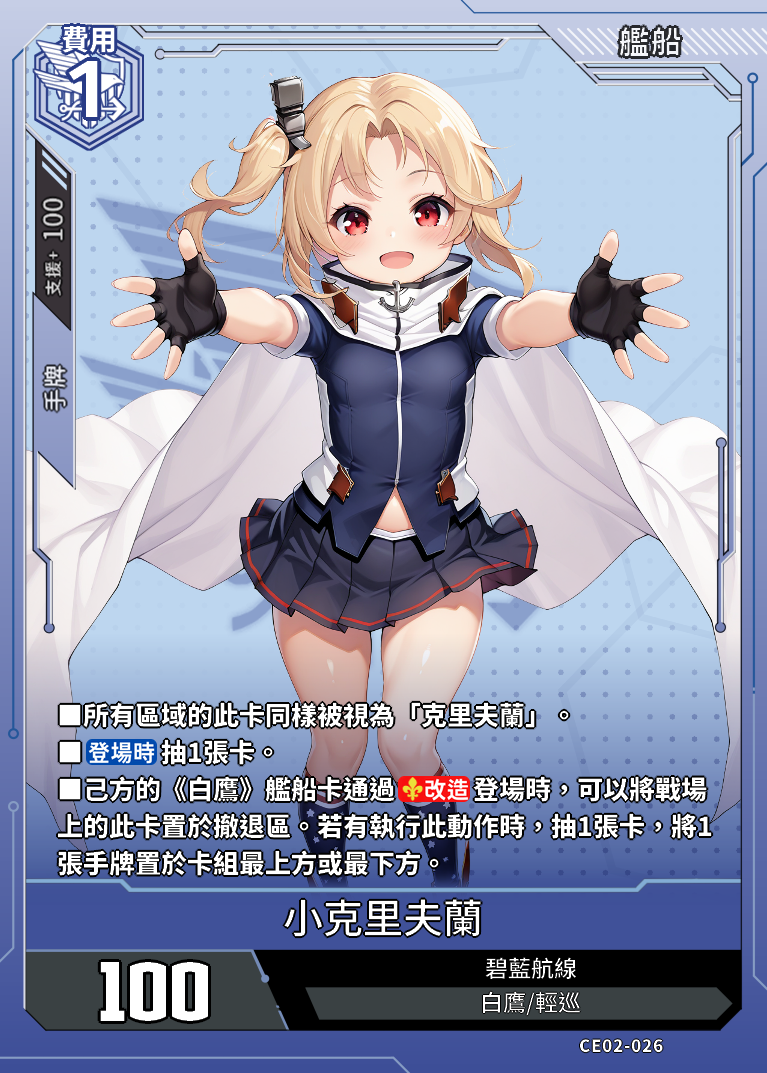
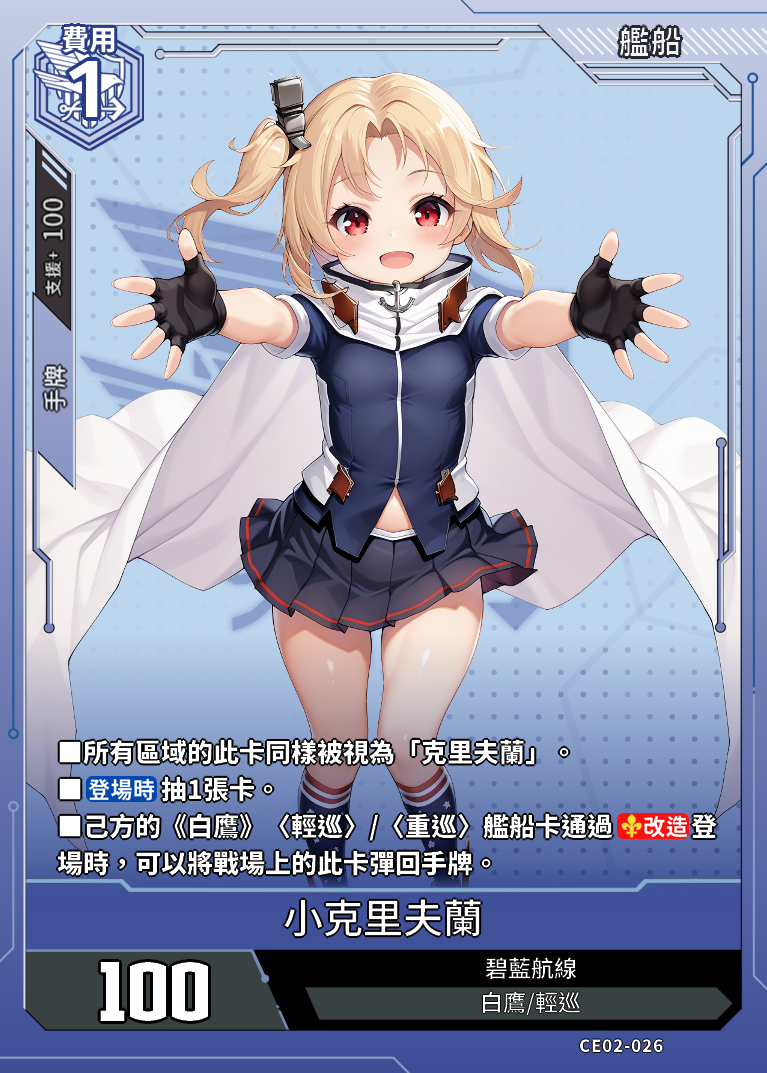
修改小克里夫蘭

Changed region(s): [[0.06, 0.6459, 0.9296, 0.8304]]

diff --git a/data.js b/data.js
@@ -24735,7 +24735,7 @@ const cards = [
             "支援範圍": "手牌",
             "支援值": "100"
         },
-        "card_effect": "■所有區域的此卡同樣被視為「克里夫蘭」。■【登場時】抽1張牌。■己方的《白鷹》艦船卡通過【改造】登場時，可以將戰場上的此卡置於撤退區。若有執行此動作時，抽1張卡，將1張手牌置於卡組最上方或最下方。",
+        "card_effect": "■所有區域的此卡同樣被視為「克里夫蘭」。■【登場時】抽1張牌。■己方的《白鷹》〈輕巡〉/〈重巡〉艦船卡通過【改造】登場時，可以戰場上的此卡彈回手牌。",
         "acquisition_method": "CE02-預覽測試"
     },
 	{

diff --git a/index.html b/index.html
@@ -23,6 +23,7 @@
 		<h2><a href="deckbuild.html">組牌模擬器</a></h2>
 		<h2><a href="/ImgGen">碧藍戰卡自製卡片生成器</a></h2>
 		<h2><a href="cockatrice.html">Cockatrice模擬器</a></h2>
+		<h2><a href="https://games.alcg-ce.com/">碧藍戰卡線上對戰</a></h2>
         <!-- 文字搜尋框 -->
 		<div class="search-inputs">
 			<input type="text" id="searchName" placeholder="輸入卡片名稱..." oninput="searchCards()">
